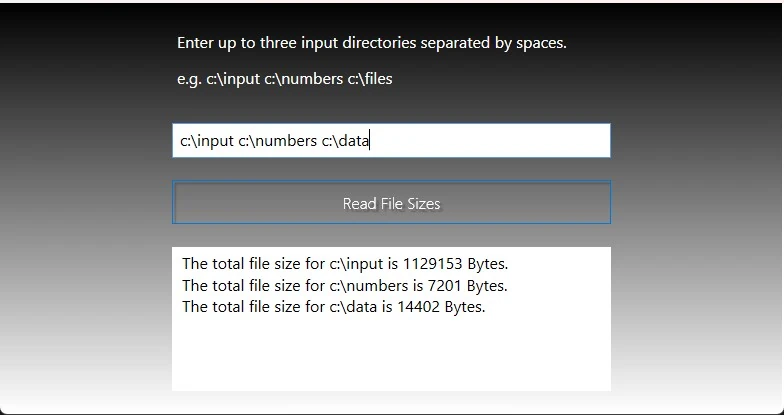
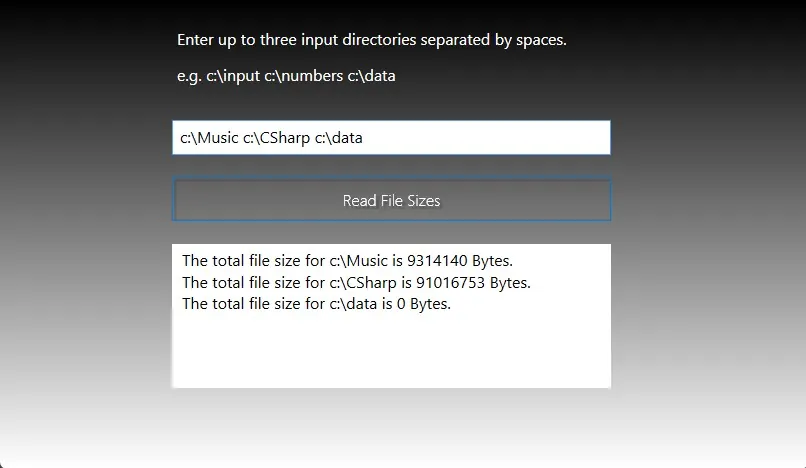
refactor code

diff --git a/WpfApp/MainWindow.xaml b/WpfApp/MainWindow.xaml
@@ -14,8 +14,8 @@
             </LinearGradientBrush>
         </Grid.Background>
         <Label Content="Enter up to three input directories separated by spaces." HorizontalAlignment="Left" Margin="172,23,0,0" VerticalAlignment="Top" Width="439" FontSize="16" Foreground="White"/>
-        <TextBox x:Name="InputDirectories" HorizontalAlignment="Left" Height="35" Margin="172,120,0,0" TextWrapping="Wrap" VerticalAlignment="Top" Width="439" FontSize="16" Padding="5" TabIndex="1"/>
-        <Button Content="Read File Sizes" HorizontalAlignment="Left" Margin="172,177,0,0" VerticalAlignment="Top" Width="439" Height="44" FontSize="16" Click="BtnReadFileSizes" FontWeight="Light" Foreground="White" Background="{x:Null}" BorderThickness="1" ClipToBounds="True" SnapsToDevicePixels="True" Cursor="Hand" TabIndex="2" Style="{DynamicResource ButtonStyle1}" IsDefault="True">
+        <TextBox x:Name="InputDirectories" HorizontalAlignment="Left" Height="35" Margin="172,120,0,0" TextWrapping="Wrap" VerticalAlignment="Top" Width="439" FontSize="16" Padding="5" TabIndex="1" TextChanged="InputDirectories_TextChanged"/>
+        <Button x:Name="readFileSizesButton" Content="Read File Sizes" HorizontalAlignment="Left" Margin="172,177,0,0" VerticalAlignment="Top" Width="439" Height="44" FontSize="16" Click="ReadFileSizes" FontWeight="Light" Foreground="White" Background="{x:Null}" BorderThickness="1" ClipToBounds="True" SnapsToDevicePixels="True" Cursor="Hand" TabIndex="2" Style="{DynamicResource ButtonStyle1}" IsDefault="True" IsEnabled="False">
             <Button.BindingGroup>
                 <BindingGroup/>
             </Button.BindingGroup>
@@ -24,7 +24,7 @@
             </Button.Effect>
         </Button>
         <TextBlock x:Name="DisplayFileSizes" HorizontalAlignment="Left" Margin="172,244,0,0" TextWrapping="Wrap" VerticalAlignment="Top" RenderTransformOrigin="0.823,-1.246" Height="144" Width="439" Padding="10,5" FontSize="16" Background="White"/>
-        <Label Content="e.g. c:\input c:\numbers c:\files" HorizontalAlignment="Left" Margin="172,59,0,0" VerticalAlignment="Top" Width="439" FontSize="16" Foreground="White"/>
+        <Label Content="e.g. c:\input c:\numbers c:\data" HorizontalAlignment="Left" Margin="172,59,0,0" VerticalAlignment="Top" Width="439" FontSize="16" Foreground="White"/>
 
     </Grid>
 </Window>

diff --git a/WpfApp/MainWindow.xaml.cs b/WpfApp/MainWindow.xaml.cs
@@ -14,11 +14,6 @@ namespace WpfApp
         }
         public static void GetFileSizes(string directory, out long totalSizeInBytes)
         {
-            // This method enumerates recursively to search file sizes in all directories and sub-directories.
-            // An output parameter is specified to output the total size of the files.
-            // Upon attempting to access an unauthorized directory, a message box will appear with the error
-            // message and output a file size of 0.
-
             totalSizeInBytes = 0;
 
             if (Directory.Exists(directory))
@@ -39,10 +34,6 @@ namespace WpfApp
         }
         public static string StartThreads(string[] directories)
         {
-            // This method assigns each directory to a thread, calls the GetFileSizes method to recursively get
-            // the size of every file and get their total sum, and return the display text to the main method along
-            // with the total size of the files.
-
             long totalSizeInBytes = 0;
             string displayText = string.Empty;
 
@@ -54,6 +45,7 @@ namespace WpfApp
                 };
 
                 thread.Start();
+                // Using thread.Join() to wait for the threads to complete. It will lock the UI for about one second. Without using Join, the CPU time used is less than one second.
                 thread.Join();
 
                 displayText += $"The total file size for {thread.Name} is {totalSizeInBytes} Bytes. \n";
@@ -61,31 +53,25 @@ namespace WpfApp
 
             return displayText;
         }
-        public static bool ValidateDirectoryLength(string[] inputDirectories)
+        private void InputDirectories_TextChanged(object sender, System.Windows.Controls.TextChangedEventArgs e)
         {
-            // This method validates the directories to make sure only up to three are provided.
-
-            bool isDirectoryLengthValid = true;
-
-            if (inputDirectories.Length > 3)
+            if (InputDirectories.Text.Length > 0)
             {
-                isDirectoryLengthValid = false;
+                readFileSizesButton.IsEnabled = true;
             }
-
-            return isDirectoryLengthValid;
+            else
+            {
+                readFileSizesButton.IsEnabled = false;
+            }
         }
-        private void BtnReadFileSizes(object sender, RoutedEventArgs e)
-        {
-            // The code has been split into separate methods to avoid having this method do all the tasks.
-            // This method gets the directories from the textbox, sends them to have their length evaluated, clears the
-            // previous textblock value, starts the threads with the directories, and displays the results in the textblock.
-            // If the length of the directories exceeds three, a message box is displayed and the method returns.
 
+        private void ReadFileSizes(object sender, RoutedEventArgs e)
+        {
             string[] directories = InputDirectories.Text.Trim().Split(' ');
 
-            if (!ValidateDirectoryLength(directories))
+            if (!(directories.Length <= 3))
             {
-                _ = MessageBox.Show("Please enter up to three directories only.", "Up To Three Directories Only");
+                _ = MessageBox.Show("Please enter up to three directories only.", "Invalid Amount");
                 return;
             }
 

diff --git a/ConsoleApp/Program.cs b/ConsoleApp/Program.cs
@@ -8,9 +8,6 @@ namespace ConsoleApp
     {
         public static void GetFileSizes(string directory)
         {
-            // This method recursively gets the sizes of all files for a directory.
-            // If unauthorized access to a directory is detected, the method outputs a message and returns.
-
             long totalSizeInBytes = 0;
 
             if (Directory.Exists(directory))
@@ -33,9 +30,6 @@ namespace ConsoleApp
         }
         public static void StartThreads(string[] directories)
         {
-            // This method assigns each directory to a thread.
-            // Each thread calls the GetFileSizes method to retrieve the sizes of all files for each directory.
-
             foreach (string directory in directories)
             {
                 Thread thread = new Thread(() => GetFileSizes(directory))
@@ -43,17 +37,12 @@ namespace ConsoleApp
                     Name = directory
                 };
                 thread.Start();
-                // Using thr.Join() to wait for the threads to complete. It will lock the UI for about one second. Without using Join, the CPU time used is less than one second.
+                // Using thread.Join() to wait for the threads to complete. It will lock the UI for about one second. Without using Join, the CPU time used is less than one second.
                 thread.Join();
             }
         }
         private static void Main()
         {
-            // The main method prompts users to enter up to three directories separated by spaces.
-            // If the letter q is detected, the program exits.
-            // It then validates the length of the directories.
-            // If validations pass, the method calls the StartThreads method with the directories passed to it.
-
             bool quitProcess = false;
 
             while (true)
